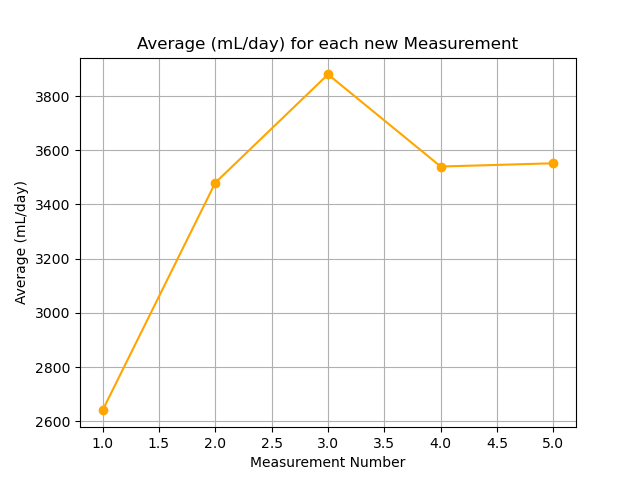
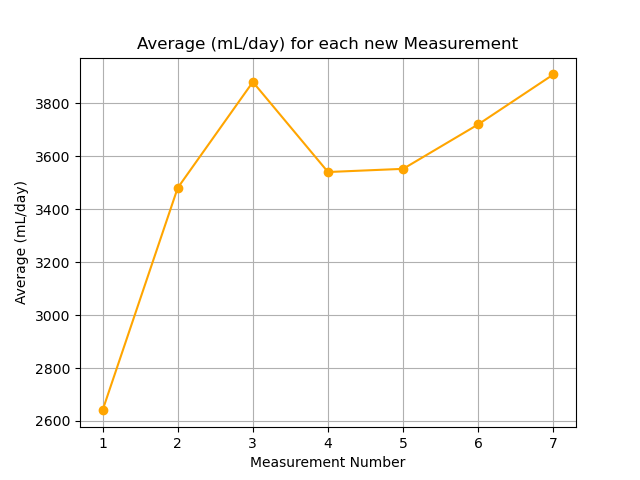
Changes to be committed: 	modified:   README.md 	modified:   data.csv 	modified:   plots/average_average_mL_h_over_24_hours_plot.png 	modified:   plots/average_mL_day_plot.png 	modified:   plots/line_plot.png 	modified:   results.csv 	modified:   results.md

diff --git a/README.md b/README.md
@@ -26,6 +26,9 @@ My water heater is leaking, so I made this because I'm lazy.
 | 3 | 2023-04-24 | 18:51 | 20:51 | 2.0 | 390 | 195.0 | 161.66666666666666 | 4680.0 | 3880.0 | 3333.333333333333 |
 | 4 | 2023-04-24 | 20:52 | 22:52 | 2.0 | 210 | 105.0 | 147.5 | 2520.0 | 3540.0 | 3385.0 |
 | 5 | 2023-04-24 | 23:00 | 01:00 | 2.0 | 300 | 150.0 | 148.0 | 3600.0 | 3552.0 | 3418.4 |
+| 6 | 2023-04-25 | 01:00 | 03:00 | 2.0 | 380 | 190.0 | 155.0 | 4560.0 | 3720.0 | 3468.6666666666665 |
+| 7 | 2023-04-25 | 03:00 | 05:00 | 2.0 | 420 | 210.0 | 162.85714285714286 | 5040.0 | 3908.5714285714284 | 3531.510204081633 |
+
 
 
 ---

diff --git a/results.md b/results.md
@@ -5,3 +5,5 @@
 | 3 | 2023-04-24 | 18:51 | 20:51 | 2.0 | 390 | 195.0 | 161.66666666666666 | 4680.0 | 3880.0 | 3333.333333333333 |
 | 4 | 2023-04-24 | 20:52 | 22:52 | 2.0 | 210 | 105.0 | 147.5 | 2520.0 | 3540.0 | 3385.0 |
 | 5 | 2023-04-24 | 23:00 | 01:00 | 2.0 | 300 | 150.0 | 148.0 | 3600.0 | 3552.0 | 3418.4 |
+| 6 | 2023-04-25 | 01:00 | 03:00 | 2.0 | 380 | 190.0 | 155.0 | 4560.0 | 3720.0 | 3468.6666666666665 |
+| 7 | 2023-04-25 | 03:00 | 05:00 | 2.0 | 420 | 210.0 | 162.85714285714286 | 5040.0 | 3908.5714285714284 | 3531.510204081633 |
